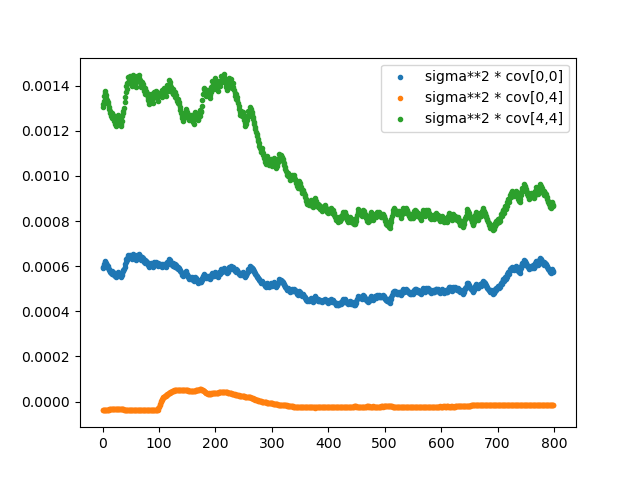
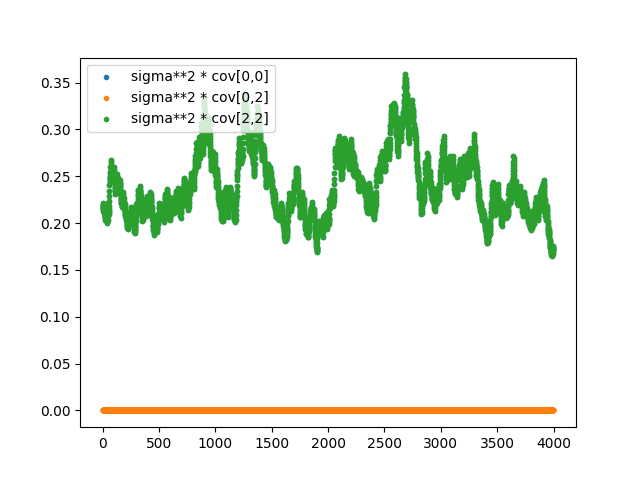
bugfixes and running amplitude only mode

diff --git a/run.py b/run.py
@@ -92,7 +92,7 @@ def single_run(kappa,wavenumber, n_steps, method = "simultaneous", field_coeffs=
     amplitude = 0
   ########### setup #############
   se = ce.System(wavenumber=wavenumber, radius=radius, alpha=alpha, C=C, u=u, n=n, kappa=kappa, gamma=gamma)
-  
+  print("alpha", se.alpha)  
   #try getting last results from files
   if os.path.isfile("./last_sigma.pickle") and os.path.getsize("./last_sigma.pickle"):
     f = open('last_sigma.pickle', 'rb')
@@ -106,12 +106,13 @@ def single_run(kappa,wavenumber, n_steps, method = "simultaneous", field_coeffs=
     cov=None
 
   #use covariance from earlier files, optimize static covariance for speed
-  me = metropolis_engine.StaticCovarianceAdaptiveMetropolisEngine(initial_field_coeffs=field_coeffs, covariance_matrix=cov,sampling_width=sampling_width,  initial_amplitude=amplitude, temp=temp)
+  me = metropolis_engine.RobbinsMonroAdaptiveMetropolisEngine(initial_field_coeffs=field_coeffs, covariance_matrix=cov,sampling_width=sampling_width,  initial_amplitude=amplitude, temp=temp)
+  #me.covariance_matrix[0,0]*=10
   surface_energy = se.calc_surface_energy(amplitude, amplitude_change=True)
   field_energy = se.calc_field_energy(field_coeffs, amplitude, amplitude_change=True)
   ########### start of data collection ############
-  amplitudes = [amplitude]
-  c_0s=[abs(field_coeffs[0])]
+  amplitudes = []
+  c_0s=[]
   sigmas=[]
   means=[]
   amplitude_cov=[]
@@ -119,6 +120,7 @@ def single_run(kappa,wavenumber, n_steps, method = "simultaneous", field_coeffs=
   c0_cov=[]
   if method == "sequential":
     for i in range(n_steps):
+      #TODO correct interpretation of output tuple?
       amplitude, field_energy, surface_energy = me.step_amplitude(amplitude=amplitude, field_coeffs=field_coeffs,
                                                              field_energy=field_energy, surface_energy=surface_energy,
                                                              system=se)
@@ -129,7 +131,8 @@ def single_run(kappa,wavenumber, n_steps, method = "simultaneous", field_coeffs=
       amplitudes.append(amplitude)
   elif method == "simultaneous":
     for i in range(n_steps):
-      amplitude, field_coeffs, field_energy, surface_energy = me.step_all(amplitude=amplitude,
+      field_coeffs = {0: 0+0j}
+      amplitude, field_coeffs, surface_energy, field_energy = me.step_all(amplitude=amplitude,
                                                              field_coeffs=field_coeffs,
                                                              field_energy=field_energy, surface_energy=surface_energy,
                                                              system=se)
@@ -137,8 +140,24 @@ def single_run(kappa,wavenumber, n_steps, method = "simultaneous", field_coeffs=
       sigmas.append(me.sampling_width)
       c_0s.append(abs(field_coeffs[0]))
       amplitude_cov.append(me.covariance_matrix[0,0])
-      amplitude_c0_cov.append(me.covariance_matrix[0,4])
-      c0_cov.append(me.covariance_matrix[4,4])
+      amplitude_c0_cov.append(me.covariance_matrix[0,1])
+      c0_cov.append(me.covariance_matrix[1,1])
+      means.append(me.mean[0])
+  elif method == "no-field":
+    field_coeffs = dict([(i, 0+0j) for i in range(-num_field_coeffs, num_field_coeffs+1)])
+    me = metropolis_engine.StaticCovarianceAdaptiveMetropolisEngine(initial_field_coeffs=field_coeffs, covariance_matrix=cov,sampling_width=sampling_width,  initial_amplitude=amplitude, temp=temp) # no need ot calculate covariance matrix for amplitude-only run
+    surface_energy = se.calc_surface_energy(amplitude, amplitude_change=True)
+    field_energy = se.calc_field_energy(field_coeffs, amplitude, amplitude_change=True)
+    for i in range(n_steps):
+      #print("field energy in", field_energy)
+      amplitude, surface_energy, field_energy = me.step_amplitude(amplitude=amplitude, field_coeffs=field_coeffs, field_energy=field_energy, surface_energy=surface_energy, system=se)
+      #print("field energy recieved", field_energy)
+      amplitudes.append(amplitude)
+      sigmas.append(me.sampling_width)
+      c_0s.append(abs(field_coeffs[0]))
+      amplitude_cov.append(me.covariance_matrix[0,0])
+      amplitude_c0_cov.append(me.covariance_matrix[0,1])
+      c0_cov.append(me.covariance_matrix[1,1])
       means.append(me.mean[0])
   plt.scatter(range(len(amplitudes)), amplitudes, label='amplitude')
   plt.scatter(range(len(amplitudes)), c_0s, label='fieldcoeff 0')
@@ -147,14 +166,14 @@ def single_run(kappa,wavenumber, n_steps, method = "simultaneous", field_coeffs=
   plt.close()
   plt.scatter(range(len(sigmas)), sigmas, marker='.', label="sigma")
   plt.scatter(range(len(sigmas)), amplitude_cov,marker='.', label = "covariance matrix[0,0]")
-  plt.scatter(range(len(sigmas)), amplitude_c0_cov,marker='.', label = "covariance matrix[0,4]")
-  plt.scatter(range(len(sigmas)), c0_cov,marker='.', label = "covariance matrix[4,4]")
+  plt.scatter(range(len(sigmas)), amplitude_c0_cov,marker='.', label = "covariance matrix[0,1]")
+  plt.scatter(range(len(sigmas)), c0_cov,marker='.', label = "covariance matrix[1,1]")
   plt.legend()
   plt.savefig("amplitude_proposal_dist.png")
   plt.close()
   plt.scatter(range(len(sigmas)), [a*s**2 for (a,s) in zip(amplitude_cov, sigmas)] ,marker='.', label = "sigma**2 * cov[0,0]")
-  plt.scatter(range(len(sigmas)), [a*s**2 for (a,s) in zip(amplitude_c0_cov, sigmas)] ,marker='.', label = "sigma**2 * cov[0,4]")
-  plt.scatter(range(len(sigmas)), [a*s**2 for (a,s) in zip(c0_cov, sigmas)] ,marker='.', label = "sigma**2 * cov[4,4]")
+  plt.scatter(range(len(sigmas)), [a*s**2 for (a,s) in zip(amplitude_c0_cov, sigmas)] ,marker='.', label = "sigma**2 * cov[0,2]")
+  plt.scatter(range(len(sigmas)), [a*s**2 for (a,s) in zip(c0_cov, sigmas)] ,marker='.', label = "sigma**2 * cov[2,2]")
   plt.legend()
   plt.savefig("amplitude_proposal_dist_2.png")
   plt.close()
@@ -165,8 +184,10 @@ def single_run(kappa,wavenumber, n_steps, method = "simultaneous", field_coeffs=
   #dump in files
   f = open('last_cov.pickle', 'wb')
   pickle.dump(me.covariance_matrix, f)
+  print("cov", np.round(me.covariance_matrix,3))
   f = open('last_sigma.pickle', 'wb')
   pickle.dump(me.sampling_width, f)
+  print("sampling width", me.sampling_width)
   return amplitudes
 
 # coefficients
@@ -174,19 +195,16 @@ alpha = -1
 C = 1
 u = 1
 n = 1
-kappa = 1
+kappa = 0
 gamma = 1
-temp = 0.1
+temp = .01
 
 # system dimensions
 radius = 1
-wavenumber = 1.5
+wavenumber = 1.50
 
 # simulation details
-num_field_coeffs = 3
-#user-define jump distribution
-#sampling_dist = lambda width :  random.uniform(-1*x, x)
-sampling_dist = lambda width : random.gauss(0, width)
+num_field_coeffs = 0
 initial_sampling_width = .025
 
 if __name__ == "__main__":
@@ -195,11 +213,11 @@ if __name__ == "__main__":
   experiment_title = loop_type[0] + "_" + loop_type[1]
   range1 = np.arange(0.005, 1.2, .05)
   range2 = np.arange(0, 1, .05)
-  n_steps = 800
+  n_steps = 4000
 
   assert (alpha <= 0)
 
-  single_run(kappa, wavenumber, n_steps, method="simultaneous")
+  single_run(kappa=kappa, wavenumber=wavenumber, n_steps=n_steps, method="no-field")
 
   # run_experiment(loop_type, experiment_title,
   # range1, range2, amp_steps, converge_stop, fieldsteps_per_ampstep)

diff --git a/metropolis_engine.py b/metropolis_engine.py
@@ -94,23 +94,25 @@ class MetropolisEngine():
     :return:
     """
     proposed_amplitude = self.draw_amplitude_from_proposal_distriution(amplitude)
+    print(proposed_amplitude)
     if abs(proposed_amplitude) >= 1:
       # don't accept.
       # like an infinite energy barrier to self-intersection.
       # does not violate symmetric jump distribution, because this is like
       # an energy-landscape-based decision after generation
+      self.update_proposal_distribution(accept=False, amplitude=amplitude, field_coeffs=field_coeffs)
       return amplitude, surface_energy, field_energy
-    new_field_energy = system.calc_field_energy(field_coeffs, proposed_amplitude, radius=radius, n=n, alpha=alpha,
-                                                C=C, u=u,
-                                                wavenumber=wavenumber)
-    new_surface_energy = system.calc_surface_energy(proposed_amplitude, wavenumber=wavenumber, radius=radius,
-                                                    gamma=gamma,
-                                                    kappa=kappa, amplitude_change=False)
-    if self.metropolis_decision((field_energy + surface_energy), (new_field_energy + new_surface_energy)):
+    new_field_energy = system.calc_field_energy(field_coeffs, proposed_amplitude, amplitude_change=True)
+    new_surface_energy = system.calc_surface_energy(proposed_amplitude, amplitude_change=False)
+    accept = self.metropolis_decision((field_energy + surface_energy), (new_field_energy + new_surface_energy))
+    print("old energy ", field_energy, surface_energy)
+    print("new energys", new_field_energy, new_surface_energy)
+    if accept:
+      print("accepted")
       field_energy = new_field_energy
       surface_energy = new_surface_energy
       amplitude = proposed_amplitude
-      # TODO: how to handle separate acceptance rates?
+    self.update_proposal_distribution(accept, amplitude, field_coeffs)
     return amplitude, surface_energy, field_energy
 
   def step_all(self, amplitude, field_coeffs, surface_energy, field_energy, system):
@@ -124,17 +126,20 @@ class MetropolisEngine():
     :param system: object which holds functions for calculating energy.  May store pre-calculated values and shortcuts.
     :return: new state and energy in the form tuple (ampltiude, field_coeffs (dict), surface_energy, field_energy).  Identical to input parameters if step was rejected.  Also modifies step counter and acceptance rate counter.
     """
+    #print("field energy in", field_energy)
     proposed_amplitude, proposed_field_coeffs = self.draw_all_from_proposal_distribution(amplitude, field_coeffs)
-    # print("propsed state", proposed_amplitude, proposed_field_coeffs)
+    #print("propsed state", proposed_amplitude, proposed_field_coeffs)
     if abs(proposed_amplitude) >= 1:
+      self.update_proposal_distribution(False, amplitude, field_coeffs)
       return amplitude, field_coeffs, surface_energy, field_energy
     new_field_energy = system.calc_field_energy(proposed_field_coeffs, proposed_amplitude, amplitude_change=True)
     new_surface_energy = system.calc_surface_energy(proposed_amplitude, amplitude_change=False)
     accept = self.metropolis_decision((field_energy + surface_energy), (new_field_energy + new_surface_energy))
-    # print("propsed c0", proposed_field_coeffs[0])
-    # print("field_energy", new_field_energy, "old_field_energy", field_energy)
+    #print("step with", self.sampling_width, self.covariance_matrix[0,0])
+    #print("surface energy", new_surface_energy, "old suface energy", surface_energy)
+    #print("field_energy", new_field_energy, "old_field_energy", field_energy)
     if accept:
-      # print("accepted")
+      #print("accepted")
       field_energy = new_field_energy
       surface_energy = new_surface_energy
       amplitude = proposed_amplitude
@@ -143,6 +148,7 @@ class MetropolisEngine():
     self.step_counter += 1
     self.update_proposal_distribution(accept, amplitude, field_coeffs)
     # output system properties, energy
+    #print("field_energy out ", field_energy)
     return amplitude, field_coeffs, surface_energy, field_energy
 
   def update_proposal_distribution(accept, amplitude, field_coeffs):
@@ -158,9 +164,7 @@ class MetropolisEngine():
     return proposed_field_coeffs
 
   def draw_amplitude_from_proposal_distriution(self, amplitude):
-    """ implement later"""
-    # TODO : genrealize to multivariate gaussian
-    proposed_amplitude = amplitude + random.gauss(0, self.sampling_width_amplitude)
+    proposed_amplitude = amplitude + random.gauss(0, self.sampling_width**2 * self.covariance_matrix[0,0]) #technically multiply by + or - 1 depending on sign of amplitud, because parameter that covariance matrix applies to is abd(amplitude).  But not needed when not simultaneousy drawing in other parameters.
     return proposed_amplitude
 
   def draw_all_from_proposal_distribution(self, amplitude, field_coeffs):
@@ -192,6 +196,7 @@ class MetropolisEngine():
     :return: bool True if step will be accepted; False to reject
     """
     diff = proposed_energy - old_energy
+    #print("diff", diff, "temp", self.temp)
     assert (self.temp is not None)
     if diff <= 0:
       return True  # choice was made that 0 difference -> accept change
@@ -199,8 +204,7 @@ class MetropolisEngine():
       return False
     else:
       probability = math.exp(- 1 * diff / self.temp)
-      assert probability >= 0
-      assert probability <= 1
+      #print("probability", probability)
       if random.uniform(0, 1) <= probability:
         return True
       else:

diff --git a/system.py b/system.py
@@ -159,6 +159,8 @@ class System():
                                  self.A_integrals[(i1 + i2 - j1 - j2)])
     assert (math.isclose(A_complex_energy.imag, 0, abs_tol=1e-7))
     assert (math.isclose(B_complex_energy.imag, 0, abs_tol=1e-7))
+    #print(field_coeffs)
+    #print(D_complex_energy)
     assert (math.isclose(D_complex_energy.imag, 0, abs_tol=1e-7))
     # print("total")
     # print(self.alpha, A_complex_energy.real)
@@ -254,5 +256,6 @@ class System():
     """
     if amplitude_change:
       self.evaluate_A_integral_0(amplitude)
+    print("A integral 0", self.A_integrals[0].real)
     # A_integrals[0] is just surface area
     return self.gamma * self.A_integrals[0].real + self.kappa * self.calc_bending_energy(amplitude)
